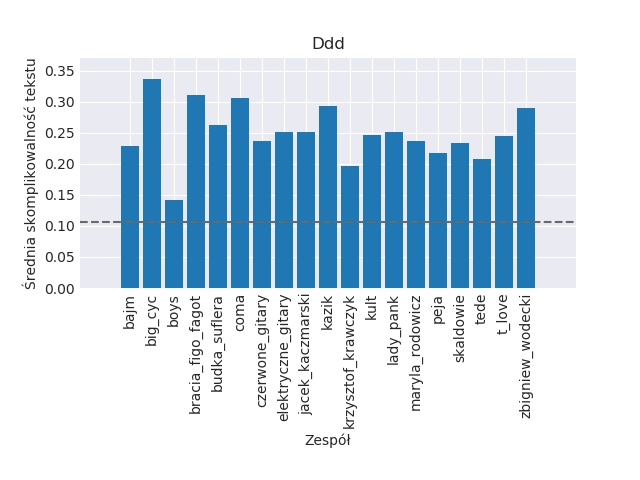
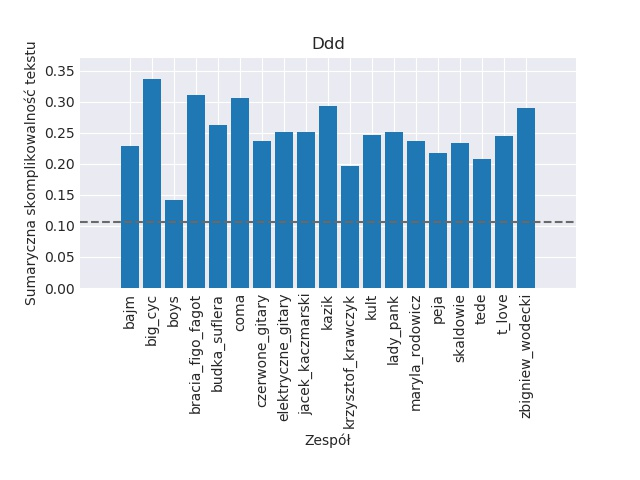
asd

Changed region(s): [[0.0312, 0.0938, 0.0625, 0.625]]

diff --git a/wizualizowanko.py b/wizualizowanko.py
@@ -39,7 +39,7 @@ def wykresuj_lata_ograniczone(wejscie, artysta, srednia_wszyscy):
 	return
 
 
-def wykresuj_skomplikowanie(wejscie):
+def wykresuj_skomplikowanie_suma(wejscie):
 	if wejscie == False:
 		print("dupcia "+artysta)
 		return
@@ -64,4 +64,37 @@ def wykresuj_skomplikowanie(wejscie):
 		plt.margins(0.1)
 		plt.subplots_adjust(bottom=0.4)
 	plt.savefig("Skomplikowanie.jpg")
+	return
+
+
+def wykresuj_skomplikowanie_srednia(wejscie):
+	if wejscie == False:
+		print("dupcia "+artysta)
+		return
+	x={}
+	for artysta in [x for x in os.listdir(wejscie) if os.path.isdir(wejscie+'\\'+x)]:
+		cos=[]
+		for rok in [x for x in os.listdir(wejscie+'\\'+artysta) if not os.path.isdir(wejscie+'\\'+artysta+'\\'+x)]:
+			try:
+				wartosc = przetwarzanko.skomplikowalnosc( przetwarzanko.wczytywanko( wejscie+'\\'+artysta+'\\' + rok ) )
+				cos.append(wartosc)
+			except:
+				print("Stary coś poszło grubo nie tak "+wejscie+'\\'+artysta+'\\' + rok )
+		x[artysta[0:-4]] = sum(cos)/len(cos)
+			
+
+	iksy = list(x.keys())
+	wysokosci = [ x[i] for i in iksy ]
+	plt.clf()
+	with plt.style.context('seaborn-darkgrid'):
+		plt.bar( iksy, wysokosci, )
+		plt.axhline(przetwarzanko.skomplikowalnosc(przetwarzanko.wczytywanko(wejscie+'.txt')), linestyle='--', color='dimgrey')
+		plt.grid(True)
+		plt.xticks(rotation='vertical')
+		plt.xlabel(r"Zespół")
+		plt.ylabel(r"Sumaryczna skomplikowalność tekstu")
+		plt.title("Ddd")
+		plt.margins(0.1)
+		plt.subplots_adjust(bottom=0.4)
+	plt.savefig("Skomplikowanie_srednia.jpg")
 	return

diff --git a/Adam_main.py b/Adam_main.py
@@ -32,5 +32,5 @@ def chmury_dla_wszystkich_nie_rob_plox():
     return
 
 
-
-wizualizowanko.wykresuj_skomplikowanie("Dane")
+wizualizowanko.wykresuj_skomplikowanie_suma("Dane")
+wizualizowanko.wykresuj_skomplikowanie_srednia("Dane")
